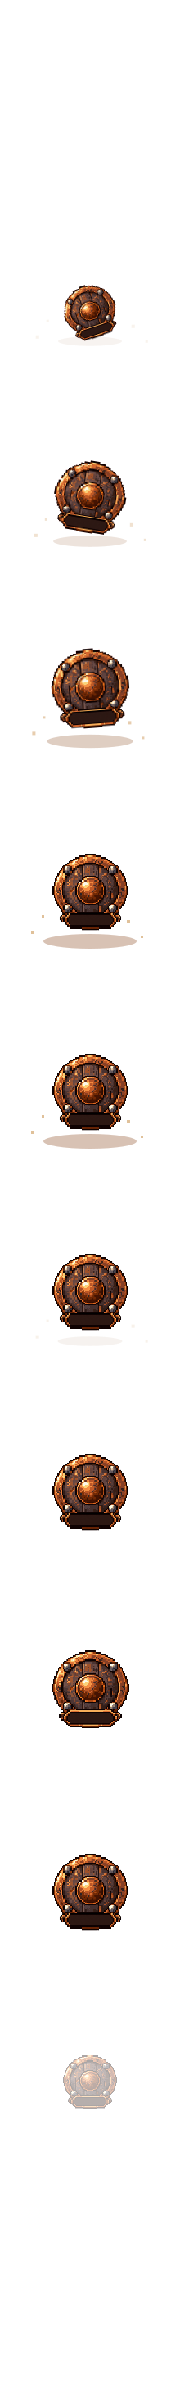
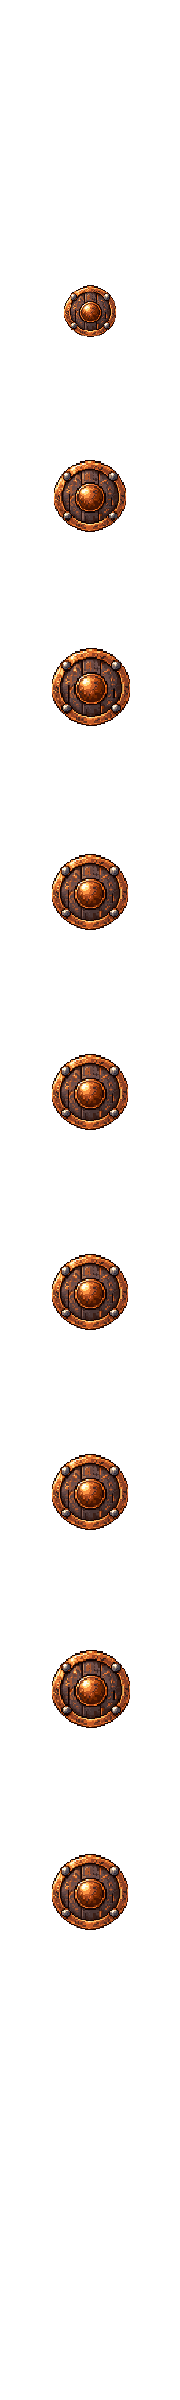
Simplify Bronze Flex crest

diff --git a/docs/bronze-flex-effect.md b/docs/bronze-flex-effect.md
@@ -1,0 +1,27 @@
+# Bronze Flex crest
+
+The Flex effect uses the clean circular Bronze crest in
+`apps/desktop/ui/assets/flex-fx/bronze-clean-source.png`. The shipped
+`bronze.png` beside it is a 180 × 2400 sheet of twelve 180 × 200 frames.
+Frames 0, 10 and 11 are transparent. Frames 1–9 scale and bounce the crest;
+the score is drawn by `overlay.mjs` at a 153px baseline for Bronze.
+
+The source came from built-in ImageGen result
+`01a18854-fe3d-7cc3-893c-147cd91daa4a/exec-2d3af5dc-5e31-4951-b133-2116f860e98b.png`
+using the existing Bronze badge as the reference. The selected result was
+cropped to the medallion and reduced with nearest-neighbor sampling.
+
+> Use case: precise-object-edit. Asset type: transparent pixel-art game rank
+> crest reference for an existing animated Flex effect. Edit the supplied
+> Bronze badge: remove the entire lower horizontal nameplate, small hanging
+> side ornaments, ground shadow, and loose particles. Complete the bottom of
+> the circular bronze medallion as a natural rounded rim in the SAME pixel-art
+> style and bronze palette. Preserve the exact upper circular rim, central
+> raised orb, four metal studs, shading, texture, and front-facing orientation.
+> Keep generous transparent margins. No text, no number, no new decoration,
+> no background, no glow. The round medallion must remain the only visible
+> object.
+
+Reviewed at native effect size: the crest remains centered, its bottom rim is
+complete, and no nameplate, loose particles, or ground shadow appear in any
+visible frame. The other Bronze rank assets remain as authored.
